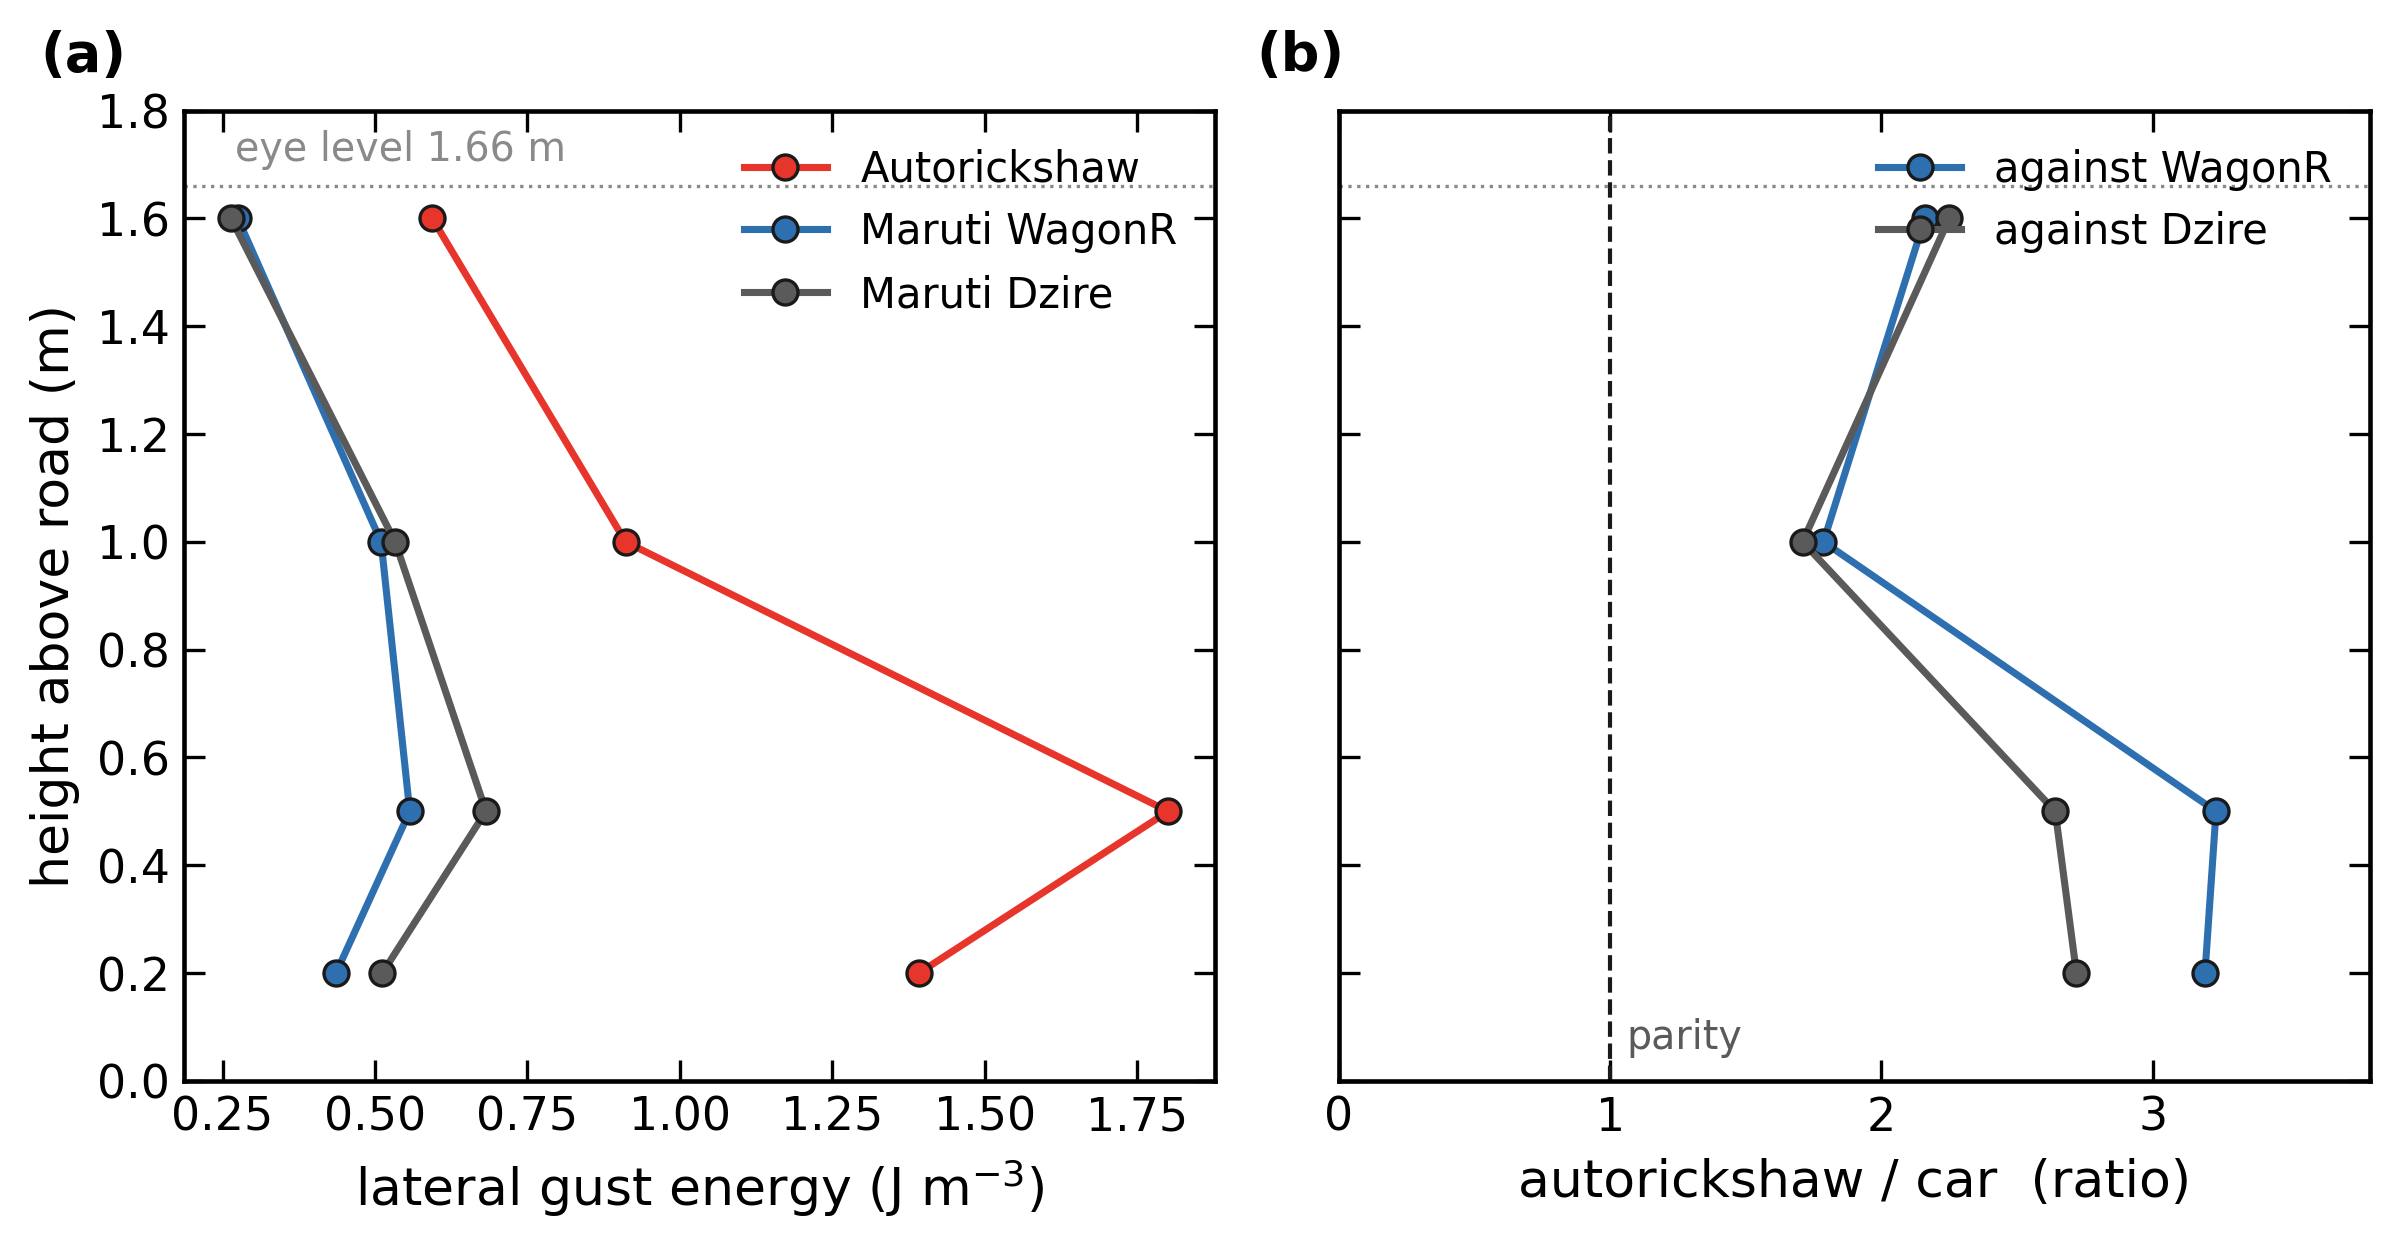
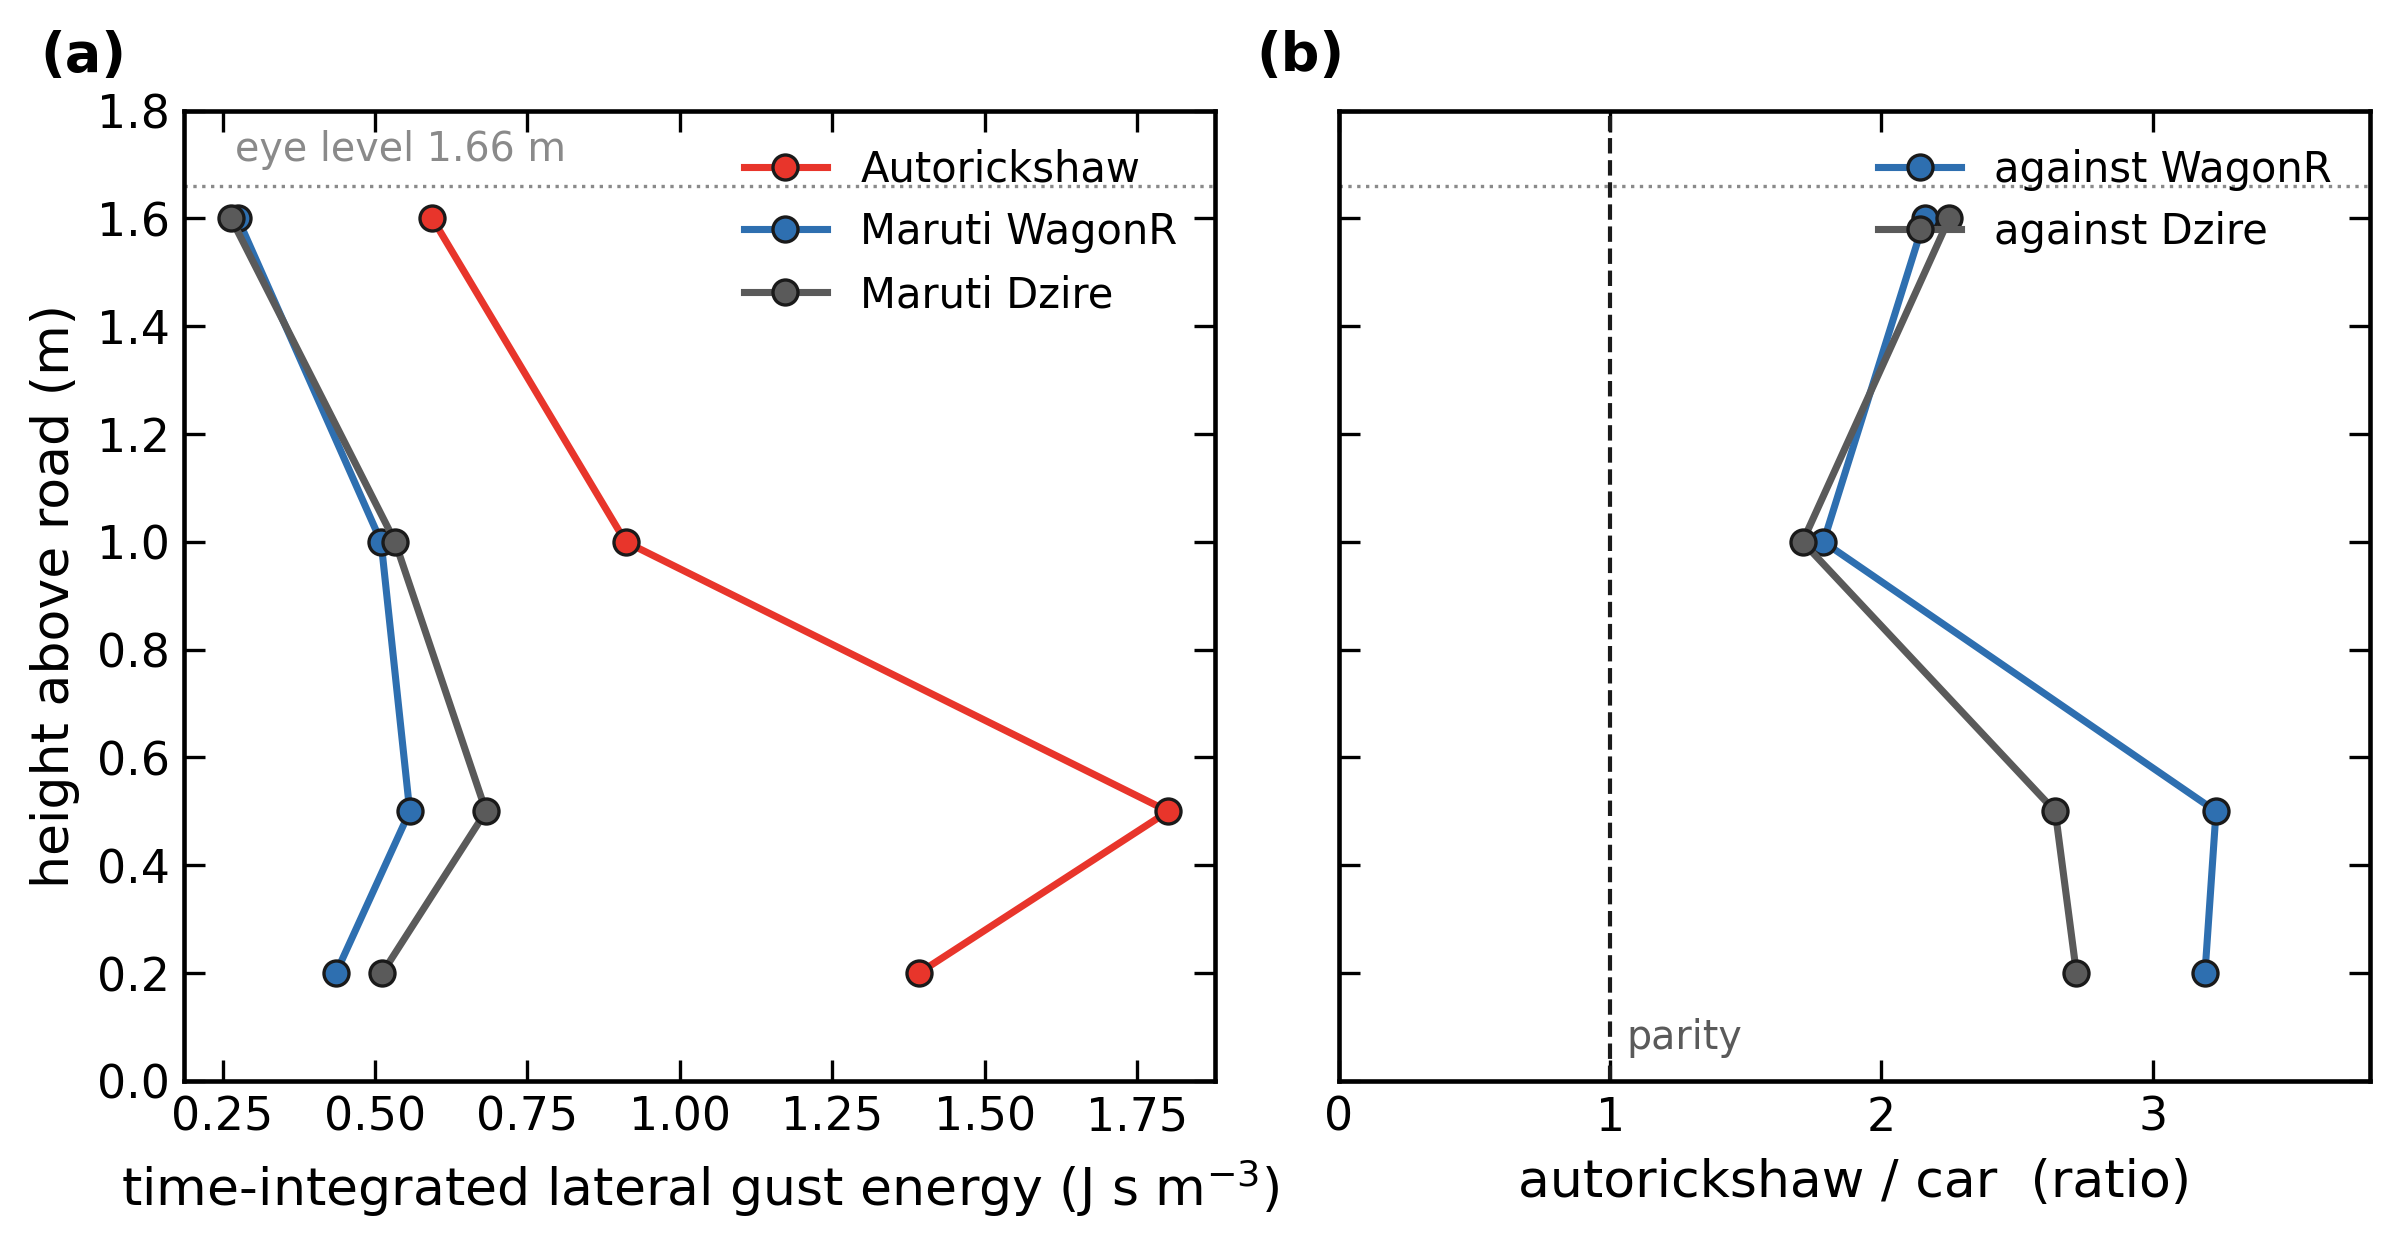
Second review pass: units, claim scope, and a destructive script
Units. E(z) is the time integral of half rho v squared. The integrand is an
energy density in J/m3 and the integration is over time, so the result is
J s /m3. The axis label said J/m3. Corrected on the axis and stated explicitly
in the report's method paragraph.

Claim scope. Two meshes give a sensitivity result, and the text called the
face and chest bands solid on that basis. It now says grid convergence needs a
third mesh and was not run. The column-integral agreement was said to exclude a
numerical source. It now says the data gives that explanation no support, and
that excluding one outright needs a mass budget on the scalar.

mkcase.sh. C was built as ~/aero/$LABEL and removed with an unquoted rm -rf, so
an empty label deleted the whole aero directory and a typo deleted an unrelated
case. LABEL is now validated against [A-Za-z0-9_-]+, argument count is checked,
every path is quoted, and an existing case is preserved unless MKCASE_FORCE=1.
Verified: empty label, no arguments, a traversal label and an existing case all
refuse with exit 1, and all twelve local cases survive.

Two stale captions. Figure 4 described grey published-range bands that were
removed when the uncited ranges were withdrawn. Figure 6 marked eye level at
1.66 m while the topmost sampled band is centred at 1.60 m, so the caption now
states the band spans 1.35 to 1.85 m and contains the eye line, and the two
places quoting 2.16x say which band it comes from.

Changed region(s): [[0.0308, 0.9367, 0.5244, 0.968]]

diff --git a/analysis/fig_exposure.py b/analysis/fig_exposure.py
@@ -35,7 +35,7 @@ def fig_gust_height():
     for v, k in ((a, "auto"), (w, "wagonr"), (d, "dzire")):
         ax.plot(v, z, color=ts.C[k], label=ts.LABEL[k],
                 **ts.marks(markerfacecolor=ts.C[k]))
-    ax.set_xlabel("lateral gust energy (J m$^{-3}$)")
+    ax.set_xlabel("time-integrated lateral gust energy (J s m$^{-3}$)")
     ax.set_ylabel("height above road (m)")
     ax.set_ylim(0, 1.8)
     ax.legend(loc="upper right")

diff --git a/README.md b/README.md
@@ -13,7 +13,8 @@ from committed data. The workflow was built end to end: Blender for geometry rep
 wrapping, OpenFOAM for the solve, and Python for analysis and figure generation.
 
 The autorickshaw measures a drag coefficient of 0.434 against 0.338 for a tall hatchback, and
-delivers 2.16x the lateral gust energy of that car at eye level and 23x the road-dust
+delivers 2.16x the lateral gust energy of that car in the band spanning eye level and 23x the
+road-dust
 concentration at waist height. Dust reaches 1.25 m above the road. The principal limitation is
 that wheels are static geometry, so the model describes redistribution of air and does not address
 dust entrainment.
@@ -76,7 +77,7 @@ the fixed mapping used throughout: red autorickshaw, blue WagonR, grey Dzire, bl
 
 FIGURE 4: Drag coefficient by vehicle. Points are the mean over the final 200 iterations and error
 bars span the oscillation band across that window, which is 1.0% for the autorickshaw and WagonR
-and about 4% for the Dzire and bus. Grey bands are published ranges for the vehicle class. The open
+and about 4% for the Dzire and bus. The open
 grey marker is a superseded autorickshaw result of 0.608 produced by a 0.06 m wrap that had erased
 the windscreen, retained because the correction is part of the method. The corrected geometry gives
 0.434, with the band tightening from 4.2% to 1.0%.
@@ -126,15 +127,18 @@ strip at the right reads the speed at the person.
 FIGURE 6: Time-integrated lateral gust energy along the pedestrian diagonal on the refined mesh.
 (a) Energy against height for three vehicles. (b) The ratio of the autorickshaw to each car, with
 parity marked. The metric integrates over the whole pass, so it depends on no chosen instant.
-Values are taken from docs/REPORT.md section 7.
+Sampling is by band: each plotted height is the centre of a 0.5 m band, so the topmost point at
+1.60 m covers 1.35 to 1.85 m and contains the 1.66 m eye line drawn on the axis. Values are taken
+from docs/REPORT.md section 7.
 
-At eye level the autorickshaw delivers 2.16x the lateral gust energy of the WagonR and 2.25x that
-of the Dzire. Two comparators differing greatly in shape land within 4% of each other, so the
+In the band centred at 1.60 m, which spans eye level, the autorickshaw delivers 2.16x the lateral
+gust energy of the WagonR and 2.25x that of the Dzire. Two comparators differing greatly in shape land within 4% of each other, so the
 result describes the autorickshaw and holds under the choice of comparator. The ranking of the two
 cars moves with height, so a single fixed height imposes an ordering that the continuous curves
 show to be height-dependent. Read the profile for shape. Face and chest energies moved 8 to 17%
-between the baseline and refined meshes and are solid. Ankle and knee energies roughly doubled, so
-those magnitudes remain mesh-dependent and the analysis establishes their direction only.
+between the baseline and refined meshes, and ankle and knee energies roughly doubled. Two meshes
+give a sensitivity result. Grid convergence needs a third, finer mesh and was not run, so the
+low-level magnitudes stay mesh-dependent and the analysis establishes their direction only.
 
 ![Vertical transport by height](docs/figures/fig07_vertical_transport.png)
 
@@ -183,9 +187,12 @@ the diagonal, with error bars showing one standard deviation across it. Integrat
 51-point grid spanning 0 to 2.5 m inclusive.
 
 The autorickshaw column holds 0.538 m against 0.473 m for the WagonR, within 14% of each other,
-and the autorickshaw standard deviation is 1.8x larger. The same quantity of dust occupies the
-column in both cases, distributed higher and more variably behind the autorickshaw. This shows
-vertical redistribution as the mechanism and excludes a numerical source in the autorickshaw case.
+and the autorickshaw standard deviation is 1.8x larger. A comparable quantity of tracer occupies
+the column in both cases, distributed higher and more variably behind the autorickshaw. This is
+consistent with vertical redistribution as the mechanism. A spurious source in the autorickshaw
+case would add tracer to its column, and the two integrals agree to within 14%, so the data gives
+that explanation no support. Excluding one outright would need a mass budget on the scalar, which
+was not run.
 Section 7 of the report quotes 0.472 m and 0.431 m for this comparison, computed on a coarser
 height grid, and both versions support the same conclusion.
 

diff --git a/docs/REPORT.md b/docs/REPORT.md
@@ -260,7 +260,8 @@ that control before believing any subtracted field.
 `pimpleFoam`, transient URANS, k-ω SST, 60 km/h, vertical sampling plane at y = 1.2 m
 (the standoff used by the pedestrian), 0 → 2.2 s. Metric is **time-integrated lateral gust energy**
 per height band, `E(z) = ∫ ½ρ·v_y² dt` evaluated along the diagonal walked by the
-pedestrian. It does not depend on choosing an instant. Two meshes were run: a baseline and a refinement
+pedestrian. The integrand is an energy density in J m⁻³ and the integration is over time, so
+E has units of **J s m⁻³**. It does not depend on choosing an instant. Two meshes were run: a baseline and a refinement
 (`refineFar` box added at x 12–27, `refineWake` extended to x = 30, **`refineNear`
 deliberately unchanged** so the near-body face band acts as a control).
 
